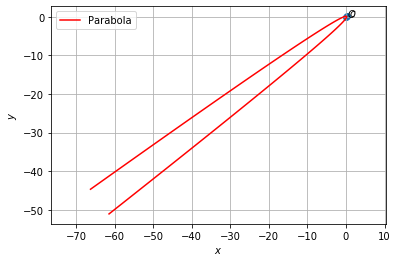
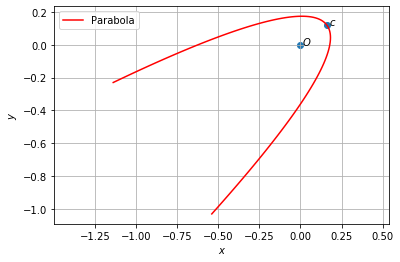
Add files via upload

Changed region(s): [[0.0603, 0.0305, 0.995, 0.916], [0.5427, 0.9466, 0.5729, 0.9771]]

diff --git a/Assignment_6/A6.tex b/Assignment_6/A6.tex
@@ -251,11 +251,11 @@ Substituting values from \eqref{eq:2},\eqref{eq:eta},\eqref{eq:p1val} in \eqref{
 To find $\vec{c}$, performing row reduction on the augmented matrix as follows:
 \begin{align}
     \myvec{-1 & -7 & -1\\16 & 12 & 4\\12 & 9 & 3}\xleftrightarrow[R_1\leftarrow -R_1]{R_3\leftarrow R_3-\frac{3}{4}R_2}\myvec{1 & 7 & 1\\16 & 12 & 4\\0&0&0}\\
-    \xleftrightarrow{R_2\leftarrow R_2-16R_1}\myvec{1 & 7 & 1\\0 & -100 & -12\\0&0&0}\\\xleftrightarrow{R_2\leftarrow \frac{-1}{100}R_2}\myvec{1 & 7 & 1\\0 & 1 & \frac{3}{25}\\0&0&0}\\\xleftrightarrow{R_1\leftarrow R_1-7R_2}\myvec{1 & 0 & 1\\0 & 1 & \frac{4}{25}\\0&0&0}
+    \xleftrightarrow{R_2\leftarrow R_2-16R_1}\myvec{1 & 7 & 1\\0 & -100 & -12\\0&0&0}\\\xleftrightarrow{R_2\leftarrow \frac{-1}{100}R_2}\myvec{1 & 7 & 1\\0 & 1 & \frac{3}{25}\\0&0&0}\\\xleftrightarrow{R_1\leftarrow R_1-7R_2}\myvec{1 & 0 & \frac{4}{25}\\0 & 1 & \frac{3}{25}\\0&0&0}
 \end{align}
 Thus,
 \begin{align}
-    \vec{c} = \myvec{1\\\frac{4}{25}} %= \myvec{-2.4 \\ -1.8}
+    \vec{c} = \myvec{\frac{4}{25}\\\frac{3}{25}} %= \myvec{-2.4 \\ -1.8}
 \end{align}
 \renewcommand{\thefigure}{1}
 \begin{figure}[h!]

diff --git a/Assignment_6/A6.py b/Assignment_6/A6.py
@@ -7,7 +7,7 @@ import math
 fig = plt.figure()
 ax = fig.add_subplot(111, aspect='equal')
 len = 100
-y = np.linspace(-4,4,len)
+y = np.linspace(-0.5,0.5,len)
 
 #Generating points on a parabola
 def parab_gen(y,a):
